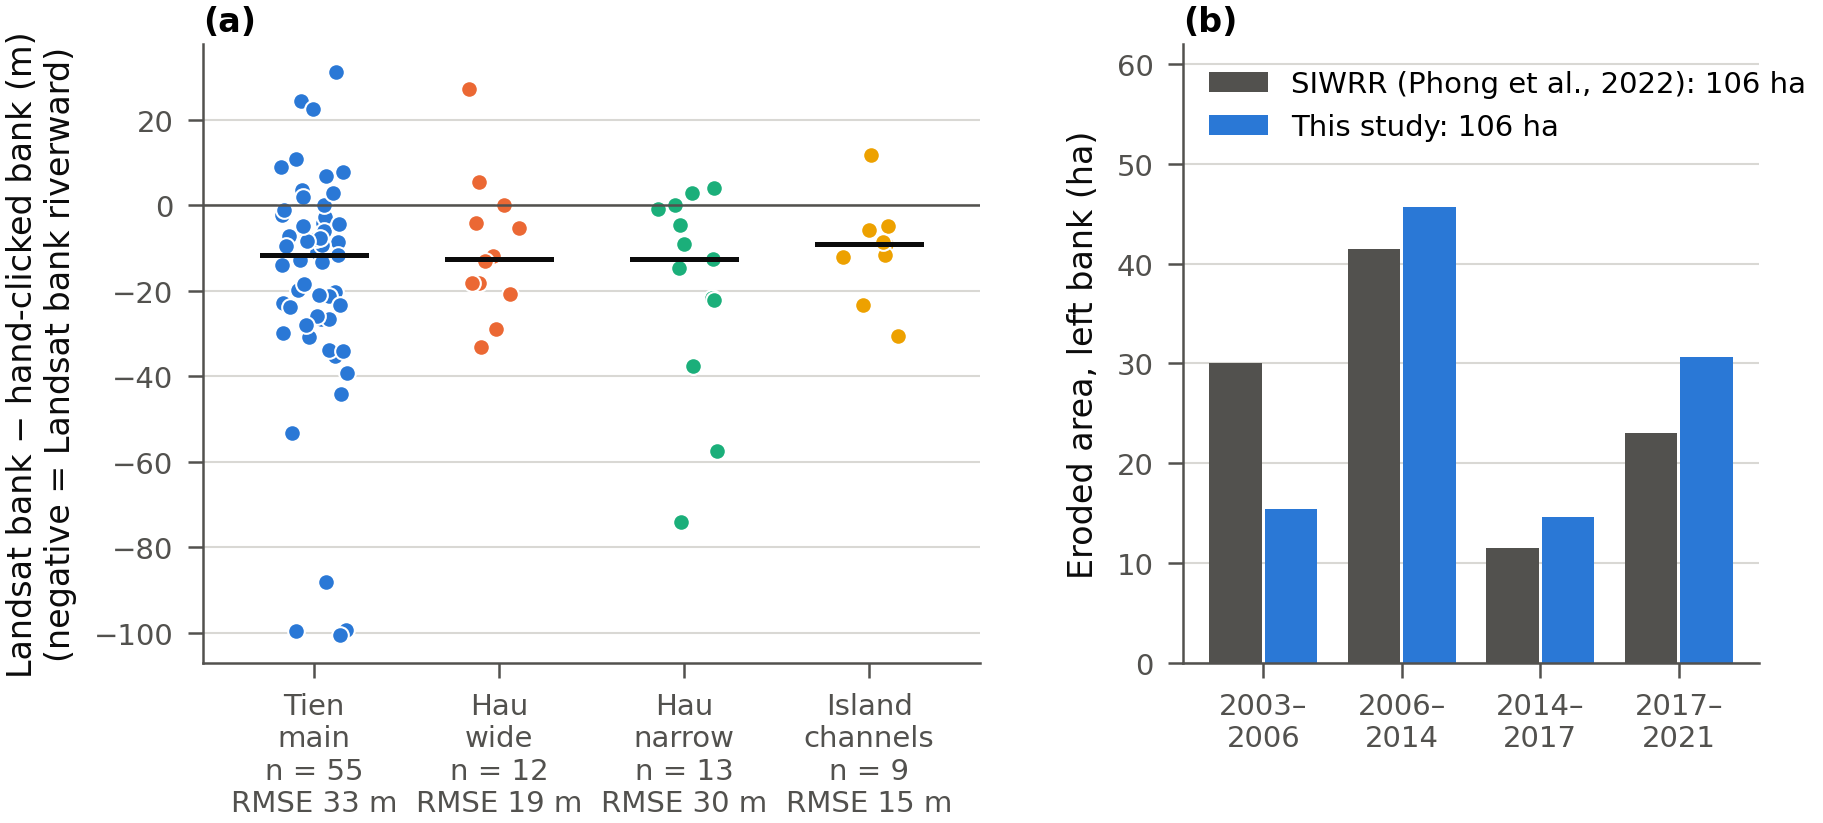
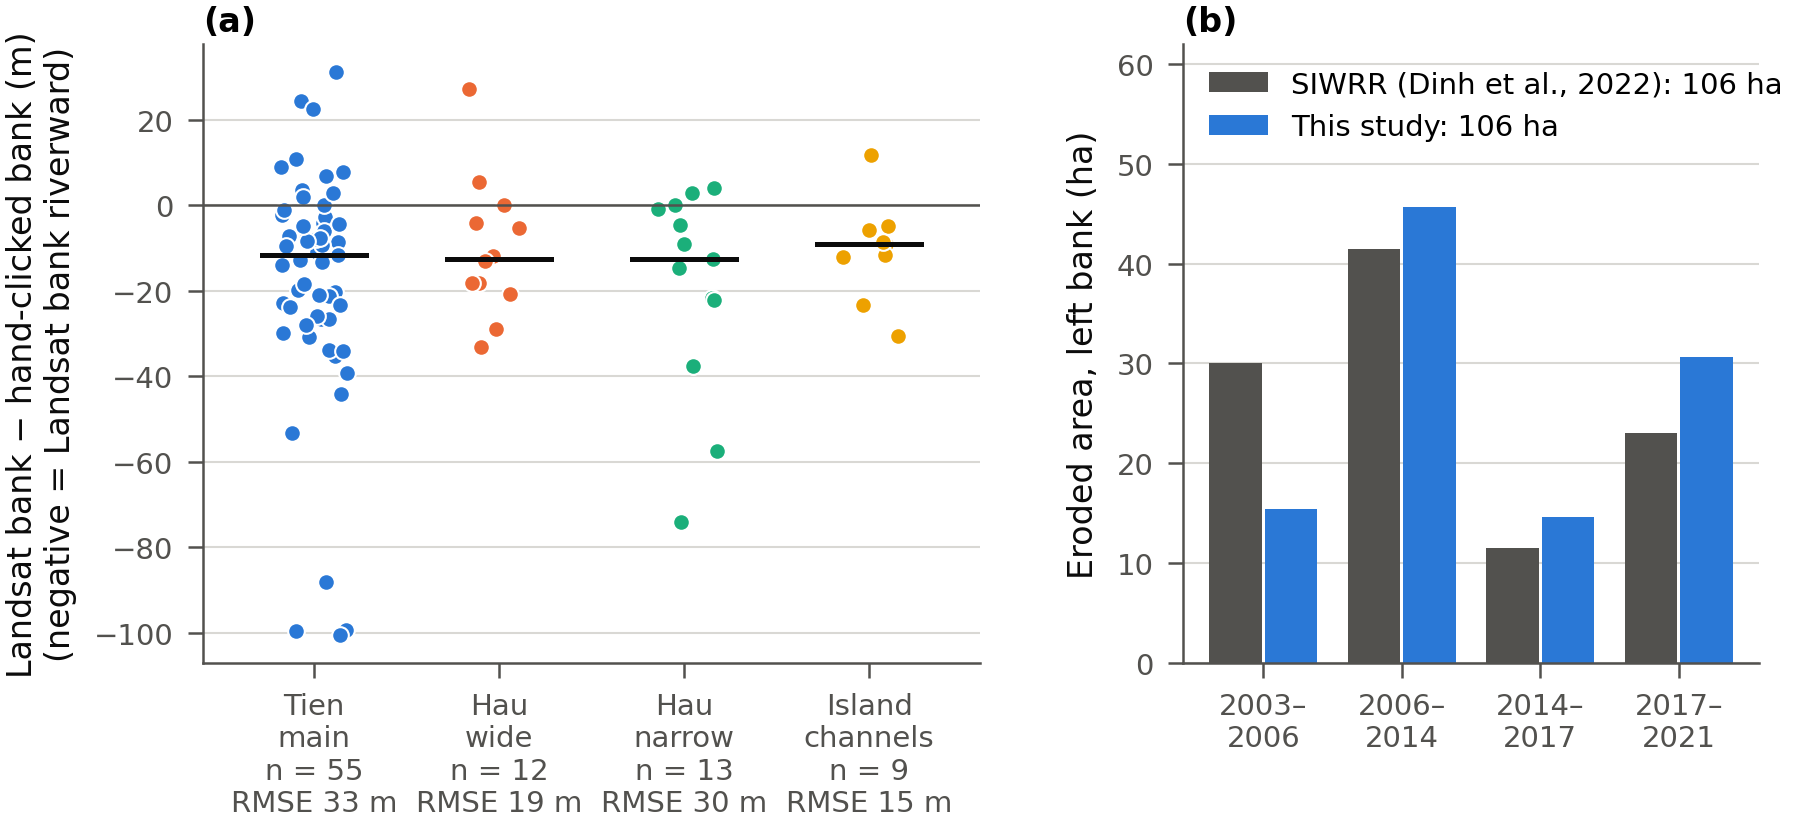
Verified bibliography (63 entries, Crossref/official pages, check table); Dinh et al. 2022 author order fixed in bib, text and figure 4; inventory-bias citation removed where the source does not support it; workflow figure: centred column headers, products in their own colour

diff --git a/src/figures.py b/src/figures.py
@@ -41,7 +41,7 @@ TOWNS = {  # lon, lat, label offset (points)
     'Sa Đéc': (105.757, 10.296, (-34, -9)), 'Cần Thơ': (105.78, 10.035, (-38, -4)),
     'Hồng Ngự': (105.343, 10.808, (5, 3)), 'Mỹ Thuận': (105.915, 10.275, (-12, 8)),
 }
-SIWRR = {'2003-2006': -30.0, '2006-2014': -41.5, '2014-2017': -11.5, '2017-2021': -23.0}   # ha, left bank (Phong 2022)
+SIWRR = {'2003-2006': -30.0, '2006-2014': -41.5, '2014-2017': -11.5, '2017-2021': -23.0}   # ha, left bank (Dinh et al. 2022)
 
 plt.rcParams.update({
     'font.family': 'DejaVu Sans', 'font.size': 8, 'axes.labelsize': 8, 'axes.titlesize': 8,
@@ -297,7 +297,7 @@ def validation():
 
     ours = siwrr_areas()
     x = np.arange(len(SIWRR))
-    b.bar(x - .2, -np.array(list(SIWRR.values())), .38, color=INK2, label=f'SIWRR (Phong et al., 2022): {-sum(SIWRR.values()):.0f} ha')
+    b.bar(x - .2, -np.array(list(SIWRR.values())), .38, color=INK2, label=f'SIWRR (Dinh et al., 2022): {-sum(SIWRR.values()):.0f} ha')
     b.bar(x + .2, -np.array(list(ours.values())), .38, color=BLUE, label=f'This study: {-sum(ours.values()):.0f} ha')
     b.set_xticks(x, [k.replace('-', '–\n') for k in SIWRR])
     b.set_ylabel('Eroded area, left bank (ha)')

diff --git a/docs/paper_notes.md b/docs/paper_notes.md
@@ -23,7 +23,7 @@ CVD-safe categorical slots (blue, orange, aqua), diverging blue (accretion) - gr
 | fig11_sentinel2 | (a) Sentinel-2 minus Landsat bank position on the same transect-side and year (2018–2024) by channel group, share within ±30 m; (b) coverage of the frozen GBT split / Mondrian 90% intervals (h = 3) against Sentinel-2 and Landsat truth, with the 87–93% band; (c) unit p75 retreat 2018→2023, Sentinel-2 vs Landsat | Robustness to sensor resolution. Sentinel-2 SR (B3/B11 MNDWI, effective ~20 m) banks on the same transects as Landsat. | `src/gee_s2.py`, `src/s2_banks.py`, `src/p3_sentinel2.py`, results/p3/sentinel2.md |
 | fig12_isprs2010 | Dumbbell chart: predicted (Lam Dao Nguyen et al., 2010) vs measured median bank retreat since 2009 at seven site-sides, 2015 and 2020, with the site-matching range | Verification of the 2010 deterministic forecast. Predicted change from the paper's appendices (weighted linear DSAS extrapolation, base 2009); measured from annual Landsat banks (3-yr means). Grey: range from two ways of matching the paper's sites to our transects. | `src/p3_isprs2010.py`, results/p3/isprs2010.md |
 | figS1_placement (supplement) | (a) ΔAUC per training source for the original placement and 200 draws with reported rows shifted 2 km and 4 km along the bank; (b) omission and commission shares per draw with the original 95% CI | Placement sensitivity of the reported labels (protocol deviation 6). | `src/p3_placement.py`, results/p3/placement.md |
-| fig04_validation | (a) Landsat minus hand-clicked bank by river / channel type; (b) eroded area vs SIWRR (Phong et al., 2022) | Accuracy. (a) Difference between the Landsat bank and the bank clicked on Esri World Imagery Wayback (negative = Landsat bank riverward); bars = median. (b) Left-bank eroded area at Bình Hàng Trung per period, this study vs Phong et al. (2022). | accuracy_review.csv per reach, tile_check.project |
+| fig04_validation | (a) Landsat minus hand-clicked bank by river / channel type; (b) eroded area vs SIWRR (Dinh et al., 2022) | Accuracy. (a) Difference between the Landsat bank and the bank clicked on Esri World Imagery Wayback (negative = Landsat bank riverward); bars = median. (b) Left-bank eroded area at Bình Hàng Trung per period, this study vs Dinh et al. (2022). | accuracy_review.csv per reach, tile_check.project |
 
 Supplement candidates: `results/p0/sadec_caolanh_sensor_check.png` (sensor pairs, repeatability, window),
 `results/p1/tiles.png` (tiles and coarse centerlines), per-tile quick-looks in `results/p1/tiles/` (not committed).
